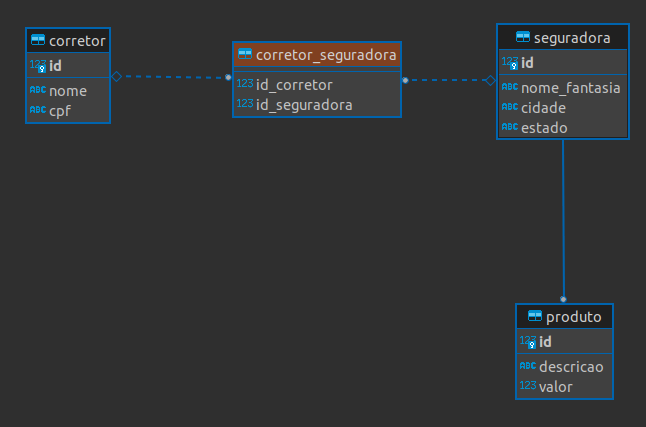
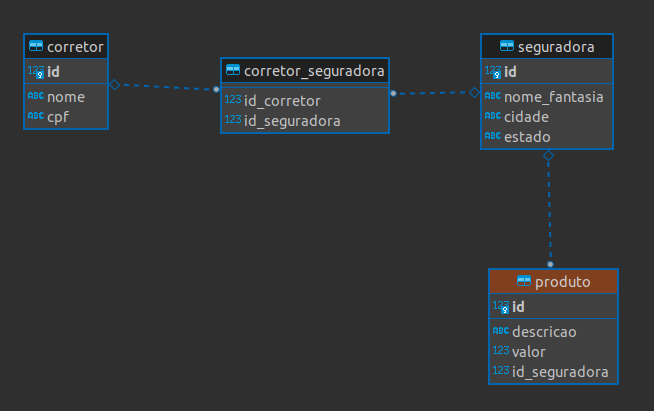
mapeamento dos objetos de origem

Changed region(s): [[0.031, 0.0292, 0.9907, 0.9343]]

diff --git a/src/main/java/com/springbatch/migracaooraclepostres/destino/domain/Seguradora.java b/src/main/java/com/springbatch/migracaooraclepostres/destino/domain/Seguradora.java
@@ -1,0 +1,17 @@
+package com.springbatch.migracaooraclepostres.destino.domain;
+
+import lombok.Data;
+
+import java.util.ArrayList;
+import java.util.List;
+
+@Data
+public class Seguradora {
+
+    private Integer id;
+    private String nomeFantasia;
+    private String cidade;
+    private String estado;
+    private List<Corretor> corretores = new ArrayList<>();
+
+}

diff --git a/src/main/java/com/springbatch/migracaooraclepostres/destino/domain/Corretor.java b/src/main/java/com/springbatch/migracaooraclepostres/destino/domain/Corretor.java
@@ -1,0 +1,16 @@
+package com.springbatch.migracaooraclepostres.destino.domain;
+
+import lombok.Data;
+
+import java.util.ArrayList;
+import java.util.List;
+
+@Data
+public class Corretor {
+
+    private Integer id;
+    private String nome;
+    private String cpf;
+    private List<Seguradora> seguradoras = new ArrayList<>();
+
+}

diff --git a/src/main/java/com/springbatch/migracaooraclepostres/destino/domain/Produto.java b/src/main/java/com/springbatch/migracaooraclepostres/destino/domain/Produto.java
@@ -3,9 +3,11 @@ package com.springbatch.migracaooraclepostres.destino.domain;
 import lombok.Data;
 
 @Data
-public class PessoaDestino {
+public class Produto {
 
     private Integer id;
-    private String nome;
+    private String descricao;
+    private Double valor;
+    private Seguradora seguradora;
 
 }
